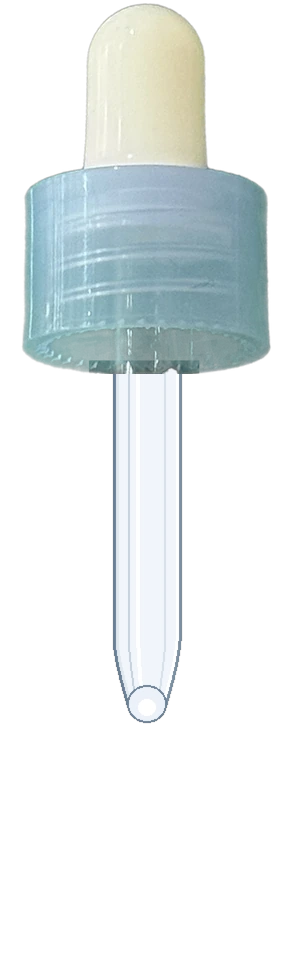
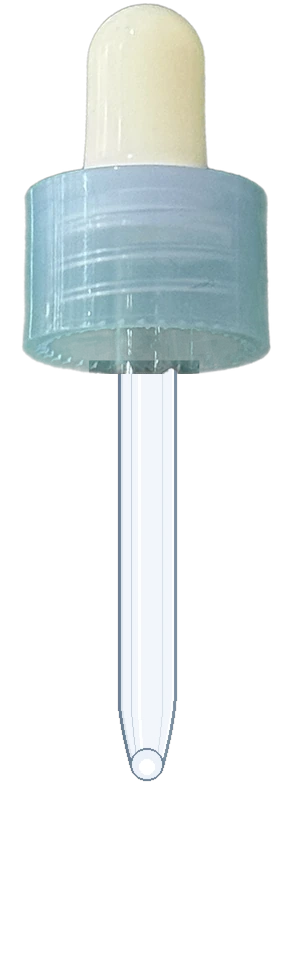
W060c: ống mảnh hơn 15% và dài hơn; cổ chai chất thuỷ tinh; chai lún nhẹ khi rút nắp (#47)
Claude-Session: https://claude.ai/code/session_01SM32Gy7XZHf11jVL44stwA

Changed region(s): [[0.3673, 0.3692, 0.6429, 0.8]]

diff --git a/components/cuon-3d/canh.ts b/components/cuon-3d/canh.ts
@@ -175,7 +175,7 @@ export function taoCanh(
   let caoThanAmp = CAO * 0.66;
   const longMat = () => new THREE.MeshPhysicalMaterial({ color: 0x86afe6, roughness: 0.15, clearcoat: 0.8, envMapIntensity: 1.1, transparent: true, opacity: 0.85, depthWrite: false });
   {
-    // Kích thước theo điểm ảnh của bộ ảnh: thân 294×654; cổ chai 294×90; nắp 294×975 (bầu + cổ nắp ảnh thật CĐT chụp 20/11, ống vẽ lại 68px dài 340px),
+    // Kích thước theo điểm ảnh của bộ ảnh: thân 294×654; cổ chai 294×90; nắp 294×975 (bầu + cổ nắp ảnh thật CĐT chụp 20/11, ống vẽ lại 58px dài 400px),
     // đáy cổ nắp ở y = 365 của ảnh nắp, phần dưới là ống thủy tinh (nằm trong chai khi đóng)
     const DV = CAO / 989; // đơn vị cảnh trên mỗi điểm ảnh (chuẩn theo chiều cao tuýp 989px)
     const rong = 294 * DV, caoThan = 654 * DV, caoNap = 975 * DV, dayCoNap = 365 * DV;
@@ -432,10 +432,11 @@ export function taoCanh(
     // 4) Nắp nhỏ giọt (đơn vị cảnh; đáy chai ở y = -CAO/2, miệng chai ở y = -CAO/2 + caoThan)
     if (NAP.nhom && NAP.giot && NAP.gon) {
       const nhac = seg(p, 0.43, 0.455) - seg(p, 0.5, 0.525), lech = seg(p, 0.452, 0.468) - seg(p, 0.495, 0.51);
-      const LIFT = 0.95, LECH = 0.55; // nhấc đủ cao để lộ đầu ống nhỏ giọt (ống dài 340px = 0.88 đơn vị)
+      const LIFT = 1.27, LECH = 0.55; // nhấc đủ cao để đầu ống (dài 400px = 1.03) vượt khỏi cổ chai (82px)
       NAP.nhom.position.set(lech * LECH, nhac * LIFT, 0.01);
+      amp.position.y -= nhac * 0.3; // chai lún nhẹ khi rút nắp để nắp không vượt mép trên màn hình
       NAP.nhom.rotation.z = -lech * 0.1;
-      const f = seg(p, 0.466, 0.492), tx = lech * LECH, dayChai = -CAO / 2, mieng = dayChai + caoThanAmp, ty = mieng - 0.02 + nhac * LIFT - 0.88; // giọt rơi từ đầu ống (đầu ống cách đáy nắp 340px ≈ 0.88)
+      const f = seg(p, 0.466, 0.492), tx = lech * LECH, dayChai = -CAO / 2, mieng = dayChai + caoThanAmp, ty = mieng - 0.02 + nhac * LIFT - 1.03; // giọt rơi từ đầu ống (đầu ống cách đáy nắp 400px ≈ 1.03)
       NAP.giot.visible = f > 0 && f < 1 && nhac > 0.5;
       if (NAP.giot.visible) {
         const taoGiot = kep(f / 0.3), roi = kep((f - 0.3) / 0.7);

diff --git a/tasks/W060.md b/tasks/W060.md
@@ -21,3 +21,7 @@
 - CĐT: nắp thật gồm 3 phần, bản 3D thiếu **phần cổ chai nhô lên** (nút nhựa trong có ren); ống còn nhỏ so với thực tế.
 - Thêm `ampoule-co.webp` (294×90, vẽ: nút trong có 3 vòng ren, rộng 132px ≈ 45% thân chai, cao 82px) → plane riêng `co` trong canh.ts, z=−0.02, renderOrder 0: nằm sau nắp nên cổ nắp che kín khi đóng, lộ ra khi nhấc. Schema `tai_san.ampoule_co` bắt buộc.
 - Ống vẽ lại rộng 68px (≈ 28% cổ nắp, theo ảnh IMG_9767), có lòng ống, đầu thon tròn có vòi. Dài vẫn 340px.
+
+## Bổ sung 2 (CĐT): ống mảnh hơn ~15% và dài hơn; cổ chai là thuỷ tinh
+- Ống 68 → 58px, dài 340 → 400px. LIFT 0.95 → 1.27 để đầu ống vượt cổ chai 82px; chai lún nhẹ 0.3 đơn vị khi rút nắp để nắp không vượt mép trên màn hình.
+- `ampoule-co.webp` vẽ lại chất kính: nền trong (alpha ~70), mép sáng sắc, gờ ren mảnh sáng–tối, vệt khúc xạ.
